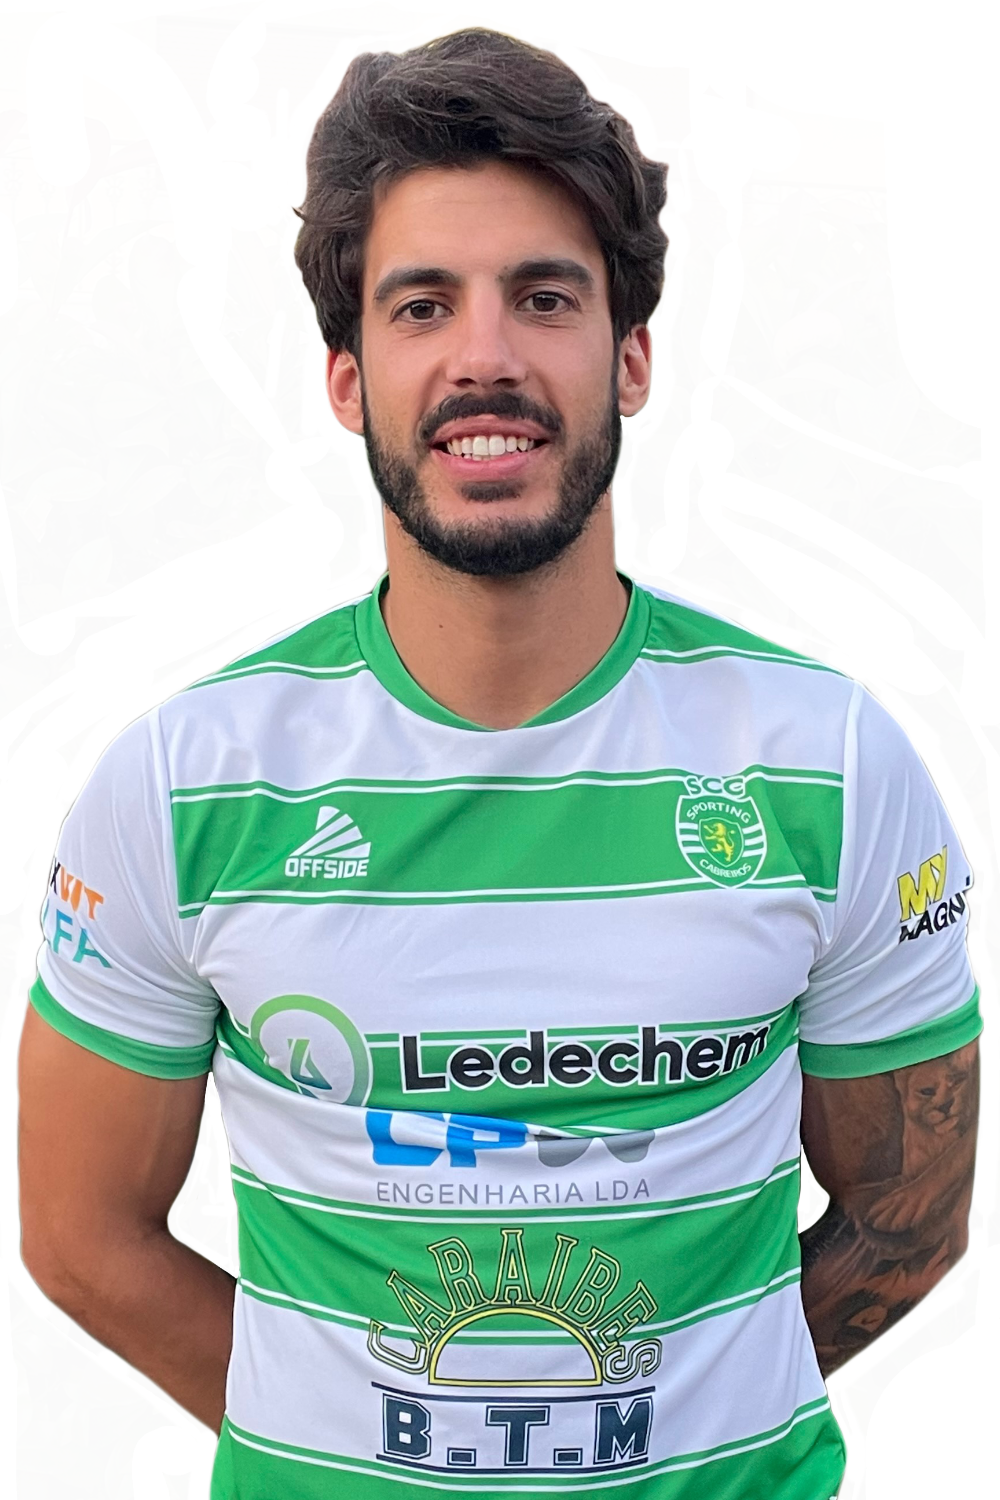
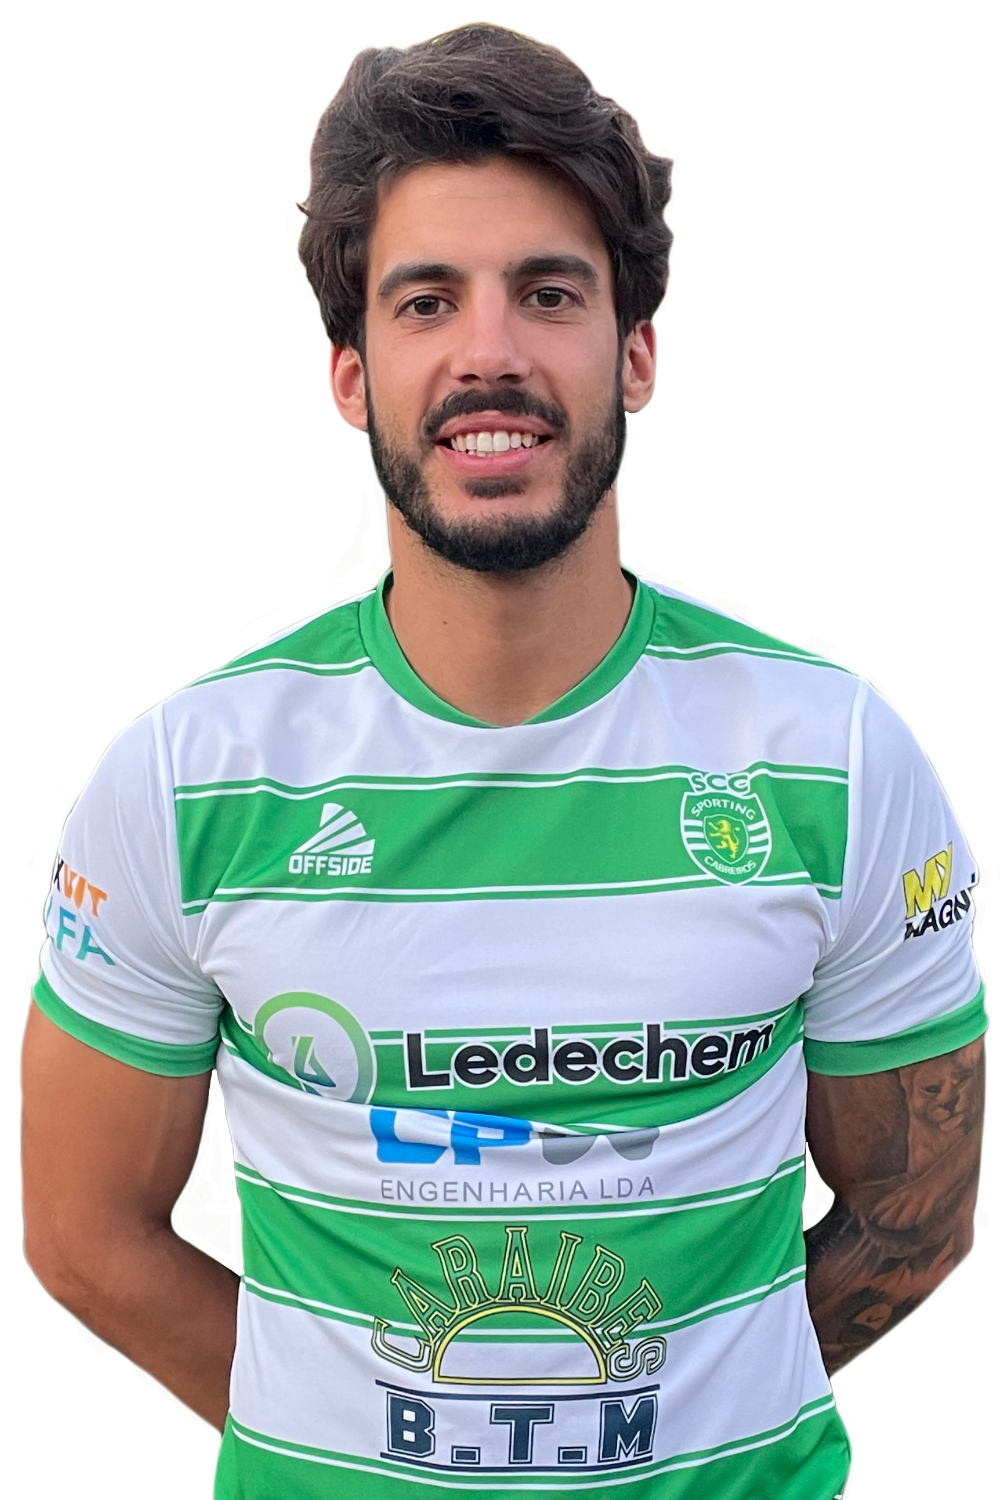
:white_check_mark: Updates landing pages news and new player photo

diff --git a/src/components/feed/news/Highlight.tsx b/src/components/feed/news/Highlight.tsx
@@ -10,15 +10,15 @@ const Highlight = ({ id }: HighlightProps) => {
   return (
     <div className="flex flex-col space-y-4">
       <h2 className="bg-green-600 text-3xl font-agencygothic uppercase text-white p-4 rounded-sm shadow-md">
-        Bem-vindo Telmo!
+        Bem-vindo Diogo!
       </h2>
       <div className="flex flex-col shadow-md">
         <div className="bg-green-600 h-1 rounded-t-sm"></div>
         <div className="flex flex-col lg:flex-row bg-gray-100 rounded-sm ">
           <div className="w-full flex lg:w-3/5">
             <Image
-              src="/images/interviews/telmo.png"
-              alt="interview_telmo"
+              src="/images/interviews/diogo.png"
+              alt="interview_diogo"
               width={1448}
               height={800}
             />
@@ -26,13 +26,10 @@ const Highlight = ({ id }: HighlightProps) => {
           <div className="w-full lg:w-2/5 flex flex-col space-y-2 px-6 py-4">
             <div></div>
             <p className="uppercase text-gray-400 text-sm">Entrevista</p>
-            <h3 className="text-2xl text-gray-700">
-              Telmo está ansioso pelo início da época
-            </h3>
+            <h3 className="text-2xl text-gray-700">Diogo está de regresso</h3>
             <p className="font-extralight text-sm text-gray-600">
-              Lê aquilo que o jogador comunicou ao clube no momento da
-              oficialização do vínculo, momento em que expressou o seu
-              entusiasmo pelo início dos trabalhos.
+              Lê aquilo que o jogador que tão bem conhecemos comunicou ao clube
+              no momento da oficialização do vínculo.
             </p>
             <div className="w-full h-full flex justify-center items-end">
               <Link href={`/news/${id}`}>

diff --git a/src/components/feed/LandingFeed.tsx b/src/components/feed/LandingFeed.tsx
@@ -19,7 +19,7 @@ const LandingFeed = () => {
     <div className="px-6 md:px-16 2xl:px-64 mt-8">
       <div className="flex flex-col lg:flex-row space-x-0 lg:space-x-4 space-y-4 lg:space-y-0 justify-center lg:justify-between mb-4">
         <div className="flex flex-col space-y-6 h-max w-full lg:w-9/12">
-          <Highlight id={1} />
+          <Highlight id={3} />
           <MembershipHighlight />
         </div>
         <div className="w-full lg:w-3/12 flex flex-col">
